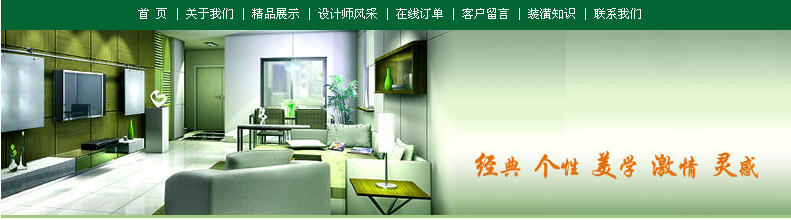
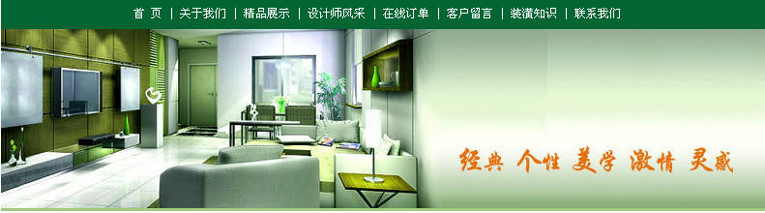
change the picture size change the text width

diff --git a/css/layout.css b/css/layout.css
@@ -8,7 +8,7 @@ body {
 #container {
 	margin-left:auto;
 	margin-right:auto;
-	width:791px;
+	width:765px;
 	text-align:left;  /* IE居中2 */
 }
 
@@ -24,12 +24,12 @@ body {
 
 #main .leftbox {
 	float:left;
-	width:209px;
+	width:210px;
 }
 
 .leftbox .left {
 	float:left;
-	width:209px;
+	width:210px;
 	height:210px;
 	background:#E6E6FA;
 }
@@ -41,7 +41,6 @@ ul {
 }
 
 .left li, .knowledge li, .dynamic li{
-	width:100%;
 	line-height:20px;
 	padding-left:20px;
 	background:url(../images/an01.gif) no-repeat 0 4px;
@@ -53,19 +52,19 @@ ul {
 
 #main .rightbox {
 	float:right;
-	width:547px;
+	width:550px;
 }
 
 .rightbox .righttop {
 	float:right;
 	width:100%;
-	height:305px;
+	height:280px;
 }
 
 .righttop li {
 	float:left;
-	width:109px;
-	height:150px;
+	width:106px;
+	height:200px;
 	line-height:150px;
 	text-align:center;  /* temp */
 	background:#E6E6FA;
@@ -73,30 +72,37 @@ ul {
 
 .righttop .show {
 	float:left;
-	width:109px;
-	height:109px;
+	width:106px;
+	height:106px;
+}
+
+.righttop .partition {
+	float:left;
+	width:5px;
+	height:200px;
+	background:#E6E6FA;
 }
 
 .righttop h3 {
 	float:left;
 	margin:0px;
 	padding:0px;
-	width:109px;
+	width:106px;
 	text-align:center;
-	line-height:50px;
+	line-height:41px;
 }
 
 .rightbox .knowledge {
 	float:left;
-	width:260px;
-	height:305px;
+	width:272px;
+	height:350px;
 	background:#E6E6FA;
 }
 
 .rightbox .dynamic {
 	float:right;
-	width:264px;
-	height:305px;
+	width:272px;
+	height:350px;
 	background:#E6E6FA;
 }
 

diff --git a/demo.html b/demo.html
@@ -51,13 +51,16 @@
 						<img src="images/right1.jpg" />
 						<ul>
 							<li><img src="images/20066155227.jpg" class="show"><h3>效果图展示</h3></li>
+							<div class="partition"></div>
 							<li><img src="images/20066115837.jpg" class="show"><h3>效果图展示</h3></li>
+							<div class="partition"></div>
 							<li><img src="images/20066133723.jpg" class="show"><h3>效果图展示</h3></li>
+							<div class="partition"></div>
 							<li><img src="images/20066169994.jpg" class="show"><h3>效果图展示</h3></li>
+							<div class="partition"></div>
 							<li><img src="images/20066171439.jpg" class="show"><h3>效果图展示</h3></li>
 						</ul>
 					</div>
-					<div class="nav"></div>
 					<div class="knowledge">
 						<img src="images/right2.jpg" />
 						<ul>
